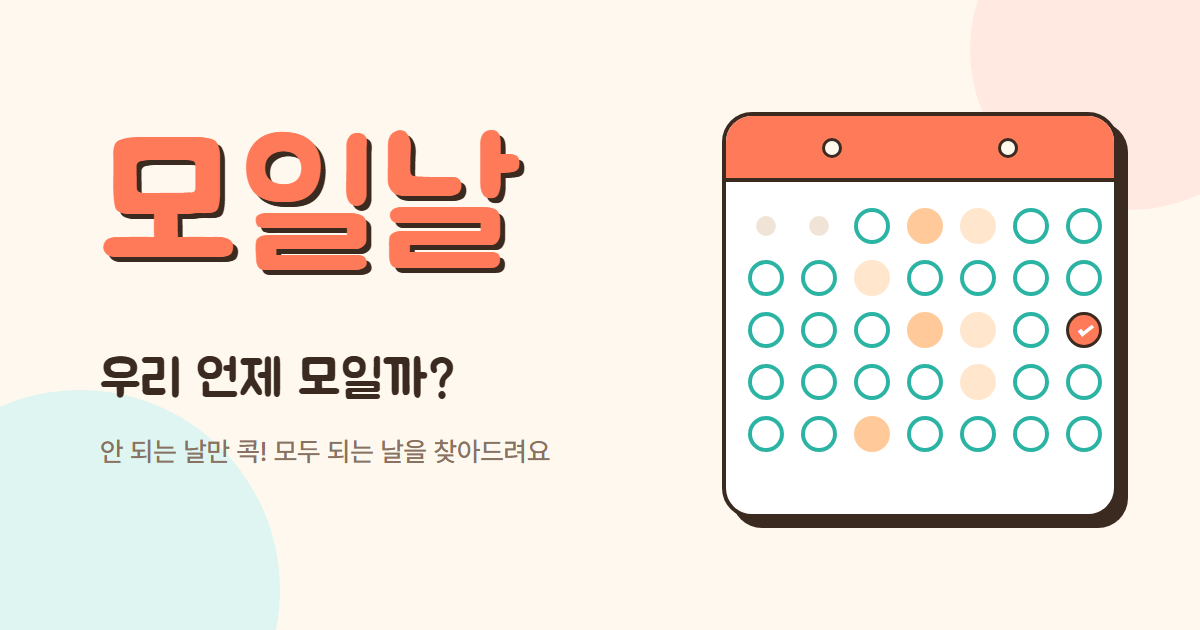
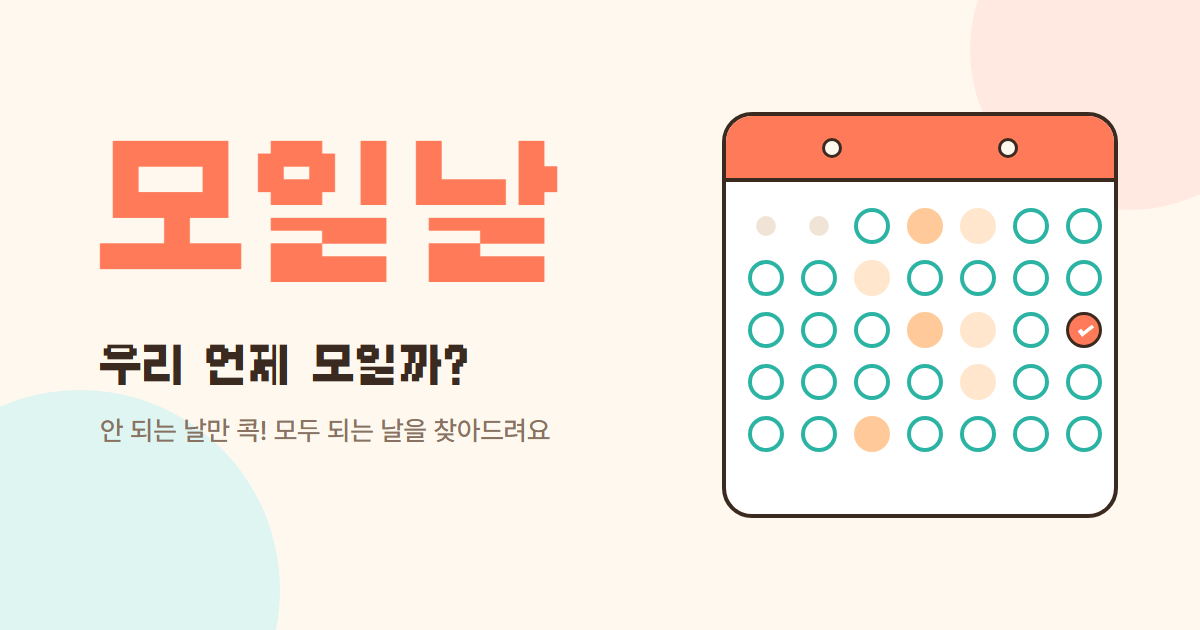
디자인 2차 수정: 그림자 제거, 1.5px 갈색 테두리, 갈무리 픽셀 글꼴 포인트, og-image

diff --git a/index.html b/index.html
@@ -13,19 +13,17 @@
   <meta property="og:title" content="모일날 · 우리 언제 모일까? 📅">
   <meta property="og:description" content="안 되는 날만 콕! 모두 되는 날을 찾아드려요">
   <meta property="og:url" content="https://moilnal.github.io/">
-  <meta property="og:image" content="https://moilnal.github.io/og-image.png?v=2">
+  <meta property="og:image" content="https://moilnal.github.io/og-image.png?v=3">
   <meta property="og:image:width" content="1200">
   <meta property="og:image:height" content="630">
   <meta property="og:image:alt" content="모일날 - 우리 언제 모일까?">
   <meta name="twitter:card" content="summary_large_image">
   <meta name="twitter:title" content="모일날 · 우리 언제 모일까? 📅">
   <meta name="twitter:description" content="안 되는 날만 콕! 모두 되는 날을 찾아드려요">
-  <meta name="twitter:image" content="https://moilnal.github.io/og-image.png?v=2">
+  <meta name="twitter:image" content="https://moilnal.github.io/og-image.png?v=3">
   <meta name="theme-color" content="#fff8ee">
   <link rel="stylesheet" href="https://cdn.jsdelivr.net/gh/orioncactus/pretendard@v1.3.9/dist/web/static/pretendard.min.css">
-  <link rel="preconnect" href="https://fonts.googleapis.com">
-  <link rel="preconnect" href="https://fonts.gstatic.com" crossorigin>
-  <link rel="stylesheet" href="https://fonts.googleapis.com/css2?family=Jua&display=swap">
+  <link rel="stylesheet" href="https://cdn.jsdelivr.net/npm/galmuri@2.40.3/dist/galmuri.css">
   <style>
     /* 디자인 시스템 "밝고 경쾌하게" (CLAUDE.md 디자인 시스템 참고) */
     :root {
@@ -40,15 +38,15 @@
       --accent-text: #e85a37; /* 코랄을 글씨로 쓸 때 */
       --ok: #2bb3a3;          /* 청록: 모두 가능한 날, 응답 완료 */
       --ok-soft: #dff5f1;
-      --ok-text: #1b8a7d;     /* 청록을 글씨로 쓸 때 */
+      --ok-text: #16786d;     /* 청록을 글씨로 쓸 때 */
       --no-soft: #ffe6cc;     /* 주황: 안 되는 날 (연함 → 진함) */
       --no-deep: #ffc999;
       --no-text: #b85a1f;
       --sat: #3d8bfd;
       --sun: #ff5a5f;
       --ink: #3a2a1f;         /* 스티커 테두리·그림자 */
-      --sticker-border: 2px solid var(--ink);
-      --sticker-shadow: 4px 4px 0 var(--ink);
+      --ink-border: 1.5px solid var(--ink); /* 카드·주요 버튼 테두리 (그림자 없음) */
+      --pixel: "Galmuri11", "Pretendard", sans-serif; /* 갈무리: 11px·22px로 */
     }
 
     * { box-sizing: border-box; margin: 0; padding: 0; }
@@ -61,7 +59,7 @@
       padding: 24px 16px 40px;
     }
 
-    button { font-family: inherit; color: inherit; }
+    button { font-family: var(--pixel); font-weight: 700; color: inherit; }
 
     .app { max-width: 420px; margin: 0 auto; }
 
@@ -70,9 +68,9 @@
 
     /* 앱 이름은 작게 (그 아래 모임명이 크게) */
     h1 {
-      font-family: "Jua", "Pretendard", sans-serif;
-      font-weight: 400;
-      font-size: 18px;
+      font-family: var(--pixel);
+      font-weight: 700;
+      font-size: 11px;
       line-height: 40px;
       text-align: center;
       color: var(--accent-text);
@@ -96,8 +94,7 @@
     .card {
       background: var(--card);
       border-radius: 20px;
-      border: var(--sticker-border);
-      box-shadow: var(--sticker-shadow);
+      border: var(--ink-border);
     }
 
     /* ---------- 참여자 영역 ---------- */
@@ -120,7 +117,7 @@
       border-radius: 50%;
       background: var(--accent-soft);
       color: var(--accent-text);
-      font-size: 18px;
+      font-size: 22px;
       font-weight: 700;
       line-height: 1;
       cursor: pointer;
@@ -150,8 +147,9 @@
       border: 2px solid var(--line);
       border-radius: 19px;
       background: #fff;
-      font-size: 14px;
-      font-weight: 600;
+      font-family: var(--pixel);
+      font-size: 11px;
+      font-weight: 700;
       cursor: pointer;
       user-select: none;
       -webkit-user-select: none;
@@ -184,7 +182,7 @@
       border-color: var(--accent);
       background: var(--accent);
       color: #fff;
-      font-weight: 700;
+      
     }
     .chip.empty.first .emo { font-size: 17px; font-weight: 800; }
 
@@ -236,11 +234,11 @@
       align-items: center;
       gap: 2px;
       font-size: 11px;
-      font-weight: 600;
+      font-weight: 700;
       white-space: nowrap;
       cursor: pointer;
     }
-    .rec-chip .rc-date { font-size: 13px; font-weight: 800; }
+    .rec-chip .rc-date { font-size: 11px; font-weight: 700; }
     .rec-chip .rc-heart { color: var(--accent-text); }
     .rec-chip .rc-time { color: var(--text); }
     .rec-chip.ok { background: var(--ok-soft); border-color: #a9e2d9; color: var(--ok-text); }
@@ -254,7 +252,7 @@
       border: 1.5px solid #ffc9b8;
       border-radius: 14px;
       background: #fff;
-      font-size: 16px;
+      font-size: 11px;
       font-weight: 700;
       cursor: pointer;
     }
@@ -283,7 +281,7 @@
       margin-left: -22px;
       border-radius: 50%;
       background: #fff;
-      box-shadow: 0 1px 6px rgba(58, 42, 31, 0.25), inset 0 0 0 3px var(--accent);
+      box-shadow: inset 0 0 0 3px var(--accent);
       touch-action: none;
       cursor: grab;
     }
@@ -300,7 +298,7 @@
       border: 1.5px solid #eadccb;
       border-radius: 18px;
       background: #fff;
-      font-size: 13px;
+      font-size: 11px;
       font-weight: 700;
       cursor: pointer;
     }
@@ -314,7 +312,7 @@
     .tl-bar { position: relative; flex: 1; height: 10px; border-radius: 5px; background: #f6ebde; }
     .tl-bar i { position: absolute; top: 0; bottom: 0; border-radius: 5px; background: #ffb8a3; }
     .tl-row.all .tl-bar i { background: var(--ok); }
-    .tl-more { margin: 2px 0 4px 32px; border: none; background: none; color: var(--accent-text); font-size: 13px; font-weight: 700; cursor: pointer; }
+    .tl-more { margin: 2px 0 4px 32px; border: none; background: none; color: var(--accent-text); font-size: 11px; font-weight: 700; cursor: pointer; }
     .tl-scale { position: relative; height: 14px; margin-left: 32px; font-size: 10px; color: var(--muted); }
     .tl-scale span { position: absolute; transform: translateX(-50%); }
     .tl-sum { margin-top: 6px; font-size: 14px; font-weight: 700; color: var(--ok-text); }
@@ -348,7 +346,7 @@
       border-radius: 10px;
       background: var(--accent);
       color: #fff !important;
-      font-size: 14px;
+      font-size: 11px;
       font-weight: 700;
       cursor: pointer;
     }
@@ -383,7 +381,7 @@
     }
     .month-nav button:active { background: #ffd9cc; }
 
-    #title { font-size: 19px; font-weight: 700; }
+    #title { font-family: var(--pixel); font-size: 22px; font-weight: 700; }
 
     .weekdays, #grid {
       display: grid;
@@ -456,7 +454,7 @@
       background: var(--accent-deep);
       color: #fff;
       font-weight: 800;
-      box-shadow: 0 2px 6px rgba(255, 122, 89, 0.45);
+      box-shadow: none;              /* 모두 가능 테두리 대신 꽉 찬 코랄만 */
     }
     .cell .pin { position: absolute; top: 1px; right: 2px; font-size: 10px; line-height: 1; }
 
@@ -585,7 +583,7 @@
       margin: 0 auto 14px;
     }
 
-    .sheet-title { font-size: 18px; font-weight: 700; margin-bottom: 6px; }
+    .sheet-title { font-family: var(--pixel); font-size: 22px; font-weight: 700; margin-bottom: 6px; }
     .sheet-desc { font-size: 14px; color: var(--muted); margin-bottom: 16px; }
 
     .who-list { list-style: none; }
@@ -612,7 +610,7 @@
       border: 1.5px solid var(--line);
       border-radius: 14px;
       background: #fff;
-      font-size: 16px;
+      font-size: 11px;
       font-weight: 600;
       text-align: left;
       cursor: pointer;
@@ -664,12 +662,11 @@
     .save-btn {
       height: 46px;
       padding: 0 16px;
-      border: var(--sticker-border);
-      box-shadow: var(--sticker-shadow);
+      border: var(--ink-border);
       border-radius: 12px;
       background: var(--accent);
       color: #fff !important;
-      font-size: 15px;
+      font-size: 11px;
       font-weight: 700;
       cursor: pointer;
     }
@@ -682,13 +679,13 @@
       height: 48px;
       border: none;
       border-radius: 14px;
-      font-size: 16px;
+      font-size: 11px;
       font-weight: 700;
       cursor: pointer;
     }
     .btn.ghost { background: #f6ebde; }
     .btn.danger { background: var(--sun); color: #fff; }
-    .btn.primary { background: var(--accent); color: #fff; border: var(--sticker-border); box-shadow: var(--sticker-shadow); }
+    .btn.primary { background: var(--accent); color: #fff; border: var(--ink-border); }
     .sheet-actions { margin-top: 18px; }
 
     /* 확정 배너 (추천 줄 자리) */
@@ -698,18 +695,18 @@
       border-radius: 14px;
       background: var(--accent-deep);
       color: #fff;
-      border: var(--sticker-border);
-      box-shadow: var(--sticker-shadow);
+      font-family: var(--pixel);
+      border: var(--ink-border);
     }
     .banner[hidden] { display: none; }
-    .banner-main { display: flex; align-items: center; gap: 8px; font-size: 15px; font-weight: 700; }
+    .banner-main { display: flex; align-items: center; gap: 8px; font-size: 11px; font-weight: 700; }
     .banner-title { flex: 1; min-width: 0; }
     .dday {
       padding: 3px 8px;
       border-radius: 10px;
       background: rgba(255, 255, 255, 0.22);
-      font-size: 12px;
-      font-weight: 800;
+      font-size: 11px;
+      font-weight: 700;
     }
     .banner-btn {
       height: 28px;
@@ -718,7 +715,7 @@
       border-radius: 9px;
       background: #fff;
       color: var(--accent-text) !important;
-      font-size: 12px;
+      font-size: 11px;
       font-weight: 700;
       cursor: pointer;
     }
@@ -728,11 +725,12 @@
       border-radius: 9px;
       background: #fff4d6;
       color: #8a5a00;
+      font-family: "Pretendard", sans-serif;
       font-size: 13px;
       font-weight: 600;
     }
-    .banner.past { background: #f6ebde; color: var(--muted); border-color: var(--line); box-shadow: none; }
-    .banner.past .banner-main { font-size: 14px; }
+    .banner.past { background: #f6ebde; color: var(--muted); border-color: var(--line); }
+    .banner.past .banner-main { font-size: 11px; }
     .btn.full { width: 100%; flex: none; }
 
     /* ---------- 안내 토스트 ---------- */
@@ -769,10 +767,9 @@
       padding: 0 12px;
       border-radius: 17px;
       background: var(--accent);
-      border: var(--sticker-border);
-      box-shadow: var(--sticker-shadow);
+      border: var(--ink-border);
       color: #fff !important;
-      font-size: 13px;
+      font-size: 11px;
       font-weight: 700;
       cursor: pointer;
     }
@@ -827,7 +824,7 @@
       border-radius: 10px;
       background: #fff;
       color: #8a5a00 !important;
-      font-size: 14px;
+      font-size: 11px;
       font-weight: 700;
       cursor: pointer;
     }
@@ -854,13 +851,13 @@
       border: 1.5px solid var(--line);
       border-radius: 14px;
       background: #fff;
-      font-size: 15px;
+      font-size: 11px;
       font-weight: 600;
       text-align: left;
       cursor: pointer;
     }
     .menu .room-label { flex: 1; min-width: 0; overflow: hidden; text-overflow: ellipsis; white-space: nowrap; }
-    .menu .room-when { flex: none; font-size: 12px; color: var(--muted); font-weight: 500; }
+    .menu .room-when { flex: none; font-family: "Pretendard", sans-serif; font-size: 12px; color: var(--muted); font-weight: 500; }
     .sheet-section { margin: 20px 0 8px; font-size: 13px; font-weight: 700; color: var(--muted); }
     .menu button.danger-text { color: var(--sun) !important; }
 
@@ -881,7 +878,7 @@
       cursor: pointer;
     }
     .room-title-row[hidden] { display: none; }
-    .room-title .t { min-width: 0; overflow: hidden; text-overflow: ellipsis; white-space: nowrap; font-family: "Jua", "Pretendard", sans-serif; font-weight: 400; font-size: 25px; }
+    .room-title .t { min-width: 0; overflow: hidden; text-overflow: ellipsis; white-space: nowrap; font-family: var(--pixel); font-weight: 700; font-size: 22px; }
     .room-title .pen { flex: none; font-size: 14px; opacity: 0.55; }
 
     /* 내 모임 목록: 이름 + 정보, 오른쪽 ⋯ */
@@ -906,8 +903,8 @@
       text-align: left;
       cursor: pointer;
     }
-    .room-name { font-size: 15px; font-weight: 700; overflow: hidden; text-overflow: ellipsis; white-space: nowrap; }
-    .room-sub { font-size: 12px; color: var(--muted); overflow: hidden; text-overflow: ellipsis; white-space: nowrap; }
+    .room-name { font-size: 11px; font-weight: 700; overflow: hidden; text-overflow: ellipsis; white-space: nowrap; }
+    .room-sub { font-family: "Pretendard", sans-serif; font-size: 12px; font-weight: 500; color: var(--muted); overflow: hidden; text-overflow: ellipsis; white-space: nowrap; }
     .more-btn {
       flex: none;
       width: 44px;
@@ -915,8 +912,8 @@
       border: none;
       border-radius: 12px;
       background: none;
-      font-size: 20px;
-      font-weight: 800;
+      font-size: 22px;
+      font-weight: 700;
       color: var(--muted) !important;
       cursor: pointer;
     }

diff --git a/CLAUDE.md b/CLAUDE.md
@@ -53,7 +53,7 @@
 * ❤ n명 기준 표시: 상세 시트 "19~23시 모두 가능" 옆 작은 회색 글씨
 * 타임라인 눈금: 슬라이더와 같은 10 · 14 · 18 · 22 · 24
 * 새 모임 첫 행동 강조("＋ 내 이름 넣기" 칩, "나" 없을 때 멤버 초대는 보조 버튼) + 안내 토스트 상단 표시·2초 자동 사라짐
-* 디자인 2차 "밝고 경쾌하게": 크림·코랄·청록 색감, 카드·주요 버튼 스티커 테두리, 제목 Jua, theme-color, og-image 새로 만듦 (아래 "디자인 시스템")
+* 디자인 2차 "밝고 경쾌하게 + 픽셀 글꼴 포인트": 크림·코랄·청록 색감, 그림자 없이 카드·주요 버튼만 1.5px 갈색 테두리, 갈무리(Galmuri11) 글꼴 포인트, theme-color, og-image 새로 만듦 (아래 "디자인 시스템")
 
 **다음 할 일**
 
@@ -84,22 +84,26 @@
 * 모바일(390px) 기준으로 먼저 디자인
 * 화면 상단에 앱 이름 "모일날" 표시 (작게, 그 아래 모임명을 크게)
 
-## 디자인 시스템 ("밝고 경쾌하게", `index.html` `:root` 변수)
+## 디자인 시스템 ("밝고 경쾌하게 + 픽셀 글꼴 포인트", `index.html` `:root` 변수)
 
 * 색
   * 배경 크림 `#fff8ee`(`--bg`, theme-color도 동일), 카드·시트 흰색 `#ffffff`
   * 본문 글씨 진한 갈색 `#3a2a1f`(`--text`), 보조 글씨 `#8a7262`(`--muted`), 얇은 테두리·구분선 `#f0e4d6`(`--line`)
-  * 포인트 코랄 `#ff7a59`(`--accent`): 주요 버튼, 확정(배너·달력), 강조 칩, "＋ 내 이름 넣기". 연한 코랄 `#ffe9e1`(`--accent-soft`): 오늘, 선택된 칩. 글씨로 쓸 때는 `#e85a37`(`--accent-text`)
-  * 모두 가능 청록 `#2bb3a3`(`--ok`), 연한 배경 `#dff5f1`(`--ok-soft`), 글씨 `#1b8a7d`(`--ok-text`)
+  * 포인트 코랄 `#ff7a59`(`--accent`): 주요 버튼, 확정(배너·달력), 강조 칩, "＋ 내 이름 넣기", 선택된 내 칩 테두리. 연한 코랄 `#ffe9e1`(`--accent-soft`): 오늘, 선택된 칩 배경. 글씨로 쓸 때는 `#e85a37`(`--accent-text`)
+  * 모두 가능 청록 `#2bb3a3`(`--ok`), 연한 배경 `#dff5f1`(`--ok-soft`), 글씨 `#16786d`(`--ok-text`)
   * 안 되는 날 히트맵: 연한 주황 `#ffe6cc` → 진한 주황 `#ffc999` (안 되는 인원 비율에 따라), 글씨 `#b85a1f`
   * 일요일 `#ff5a5f`(X 배지·삭제도 같은 빨강), 토요일 `#3d8bfd`
-  * 색의 의미: 청록 = 가능, 주황 = 안 됨, 코랄 = 확정/주요 행동
-* 테두리 규칙
-  * 스티커 스타일(2px `#3a2a1f` 테두리 + 오른쪽 아래 4px 그림자, 블러 없음)은 카드, 주요 버튼(멤버 초대 강조 상태, 확정 배너, 시트의 주 버튼·저장 버튼)에만
-  * 참여자 칩, 후보 칩, 날짜 칸 등 나머지는 얇은 테두리 (화면이 시끄럽지 않게)
+  * 색의 의미: 청록 = 가능, 주황 = 안 됨, 코랄 = 확정/주요 행동. 예전 보라색은 쓰지 않음
+* 테두리·그림자 규칙
+  * 그림자는 쓰지 않음 (카드, 버튼, 칩, 시트 모두). 테두리 역할의 얇은 링(모두 가능 동그라미 등)만 허용
+  * 카드와 주요 버튼(멤버 초대 강조 상태, 확정 배너, 시트의 주 버튼·저장 버튼)만 1.5px 진한 갈색 `#3a2a1f` 테두리(`--ink-border`)
+  * 참여자 칩, 후보 칩, 날짜 칸 등 나머지는 얇은 연한 테두리
   * 모서리는 둥글게
-* 글꼴: 앱 이름 "모일날"과 모임명 제목만 Jua (Google Fonts), 나머지(날짜 숫자 포함)는 Pretendard
-* `og-image.png`(1200x630): 크림 배경, 코랄 Jua 제목, 스티커 달력. 바꾸면 og 태그 주소의 `?v=` 숫자를 올려 카톡 캐시 갱신
+* 글꼴
+  * 갈무리 `Galmuri11` 굵게(`--pixel`, CDN `galmuri@2.40.3`): 앱 이름 "모일날", 모임명 제목, 모든 버튼, 참여자 칩, 후보 칩, 확정 배너, 달력 상단 "2026년 11월", 시트 제목
+  * Pretendard: 날짜 숫자, 요일, 안내·설명 문구, 입력칸, 범례, 시간 눈금, 토스트, 버튼 안 보조 정보(내 모임 목록의 날짜·설명)
+  * 픽셀이 선명하게 갈무리 글자 크기는 11의 배수: 대부분 11px, 모임명·달력 제목·시트 제목·[−][+]·‹ › 22px
+* `og-image.png`(1200x630): 크림 배경, 코랄 갈무리 제목 "모일날", 갈색 테두리 달력. 바꾸면 og 태그 주소의 `?v=` 숫자를 올려 카톡 캐시 갱신
 
 ## 화면 설계
 
